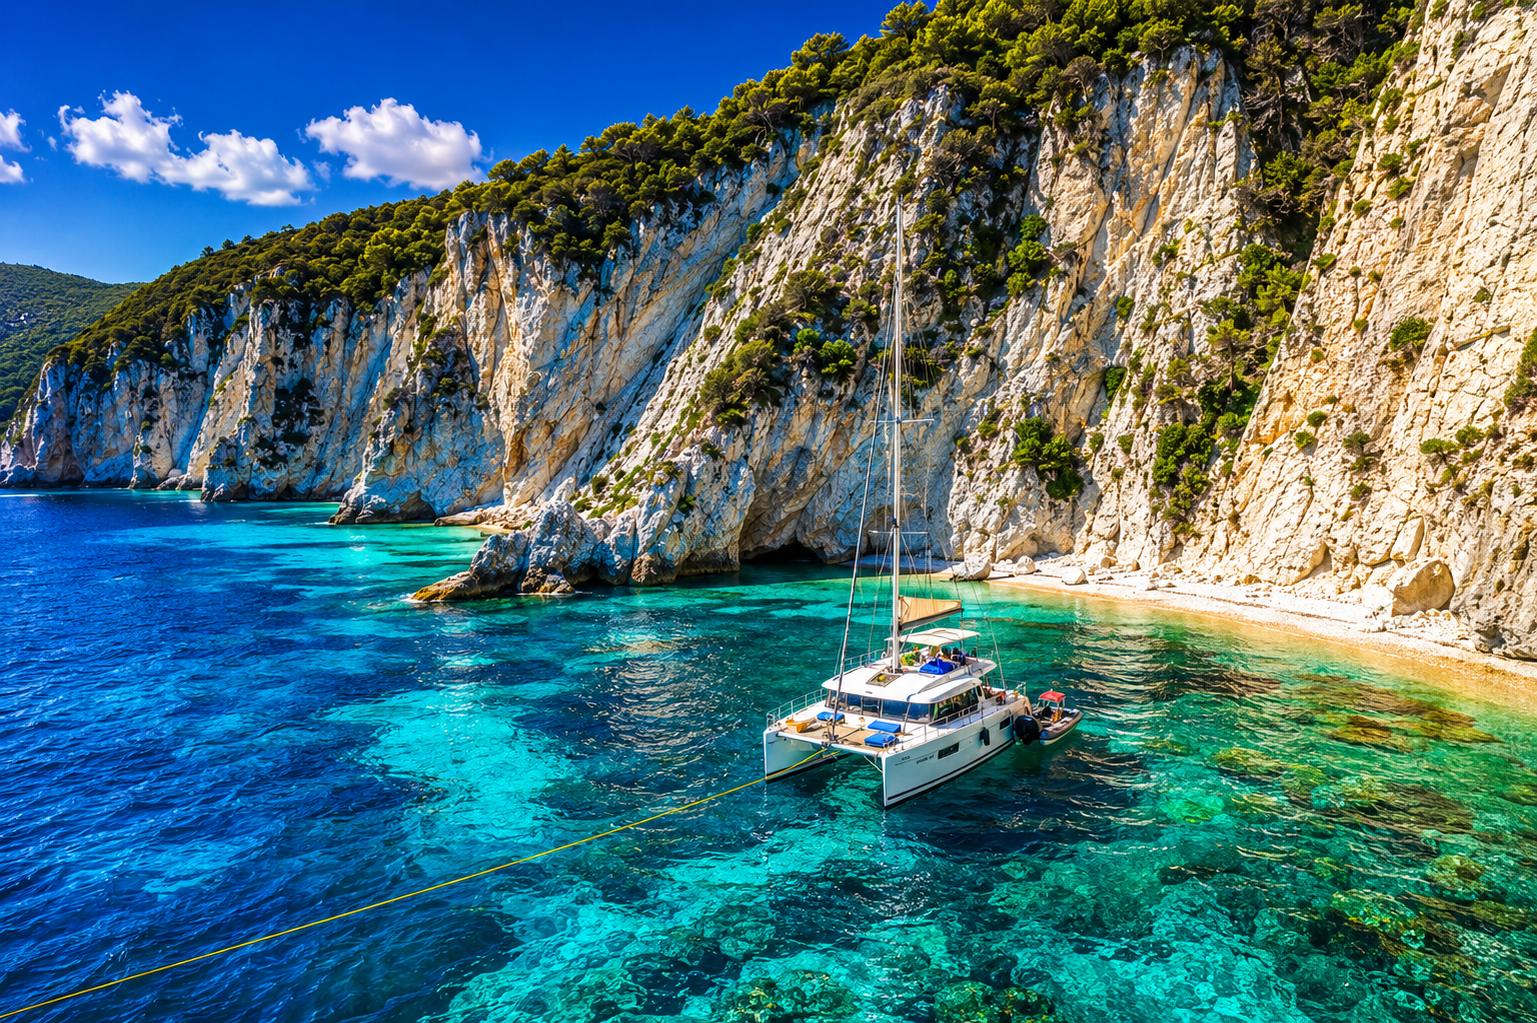
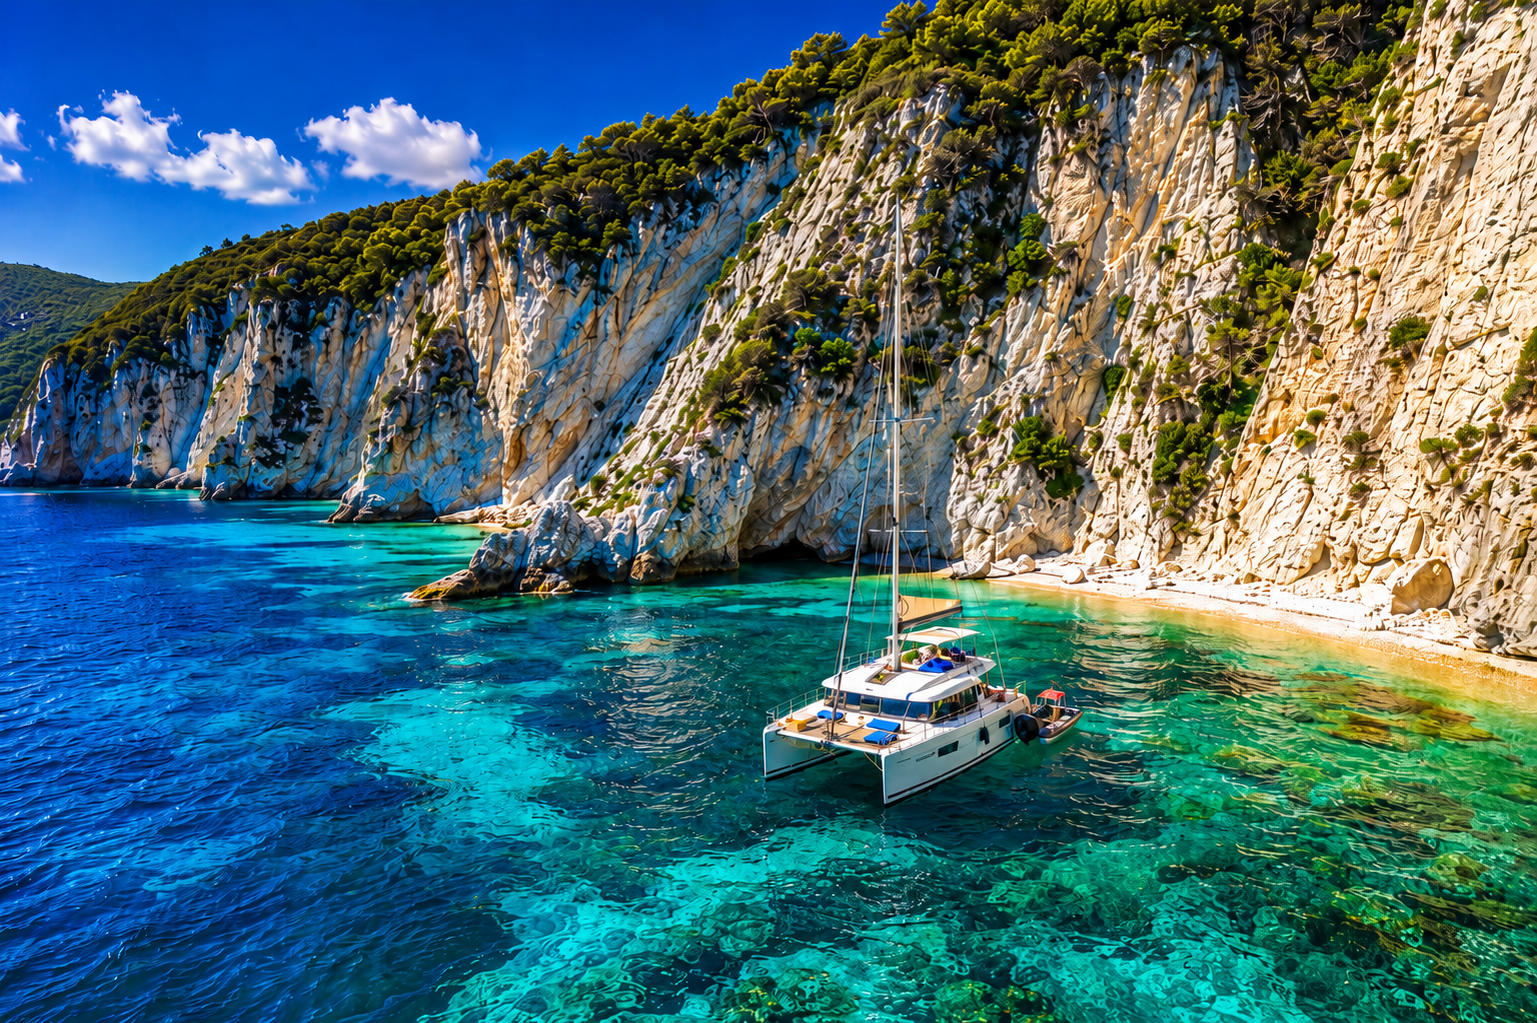
Fix mobile navigation and video controls

diff --git a/src/App.css b/src/App.css
@@ -966,3 +966,123 @@ button {
   background: rgba(16,174,181,0.12) !important;
   color: #10aeb5 !important;
 }
+
+.storyVideoWrap {
+  position: relative;
+  width: 100%;
+  height: 430px;
+  border-radius: 28px;
+  overflow: hidden;
+  background: #dff6fa;
+}
+
+.storyVideoWrap .storyVideo {
+  width: 100%;
+  height: 100%;
+}
+
+.videoPlayButton {
+  position: absolute;
+  inset: 0;
+  margin: auto;
+  width: 74px;
+  height: 74px;
+  border-radius: 50%;
+  background: rgba(7, 59, 90, 0.88);
+  color: white;
+  display: grid;
+  place-items: center;
+  font-size: 30px;
+  line-height: 1;
+  padding-left: 5px;
+  box-shadow: 0 18px 45px rgba(7, 59, 90, 0.28);
+  z-index: 5;
+}
+
+@media (max-width: 760px) {
+  .navbar {
+    width: calc(100% - 20px);
+    top: 10px;
+    padding: 10px 12px;
+    border-radius: 28px;
+    flex-wrap: wrap;
+    gap: 10px;
+  }
+
+  .brand {
+    flex: 1 1 100%;
+    justify-content: center;
+  }
+
+  .brand span:last-child {
+    font-size: 14px;
+  }
+
+  .languageSwitcher {
+    order: 2;
+    flex: 1;
+    justify-content: flex-start;
+  }
+
+  .navButton {
+    display: inline-flex !important;
+    order: 3;
+    padding: 10px 16px;
+    font-size: 13px;
+    white-space: nowrap;
+  }
+
+  .hero {
+    padding-top: 170px;
+  }
+
+  .storyVideoWrap {
+    height: 320px;
+    border-radius: 22px;
+  }
+
+  .videoPlayButton {
+    width: 64px;
+    height: 64px;
+    font-size: 26px;
+  }
+}
+
+@media (max-width: 760px) {
+  .navbar {
+    width: calc(100% - 20px);
+    top: 10px;
+    padding: 10px 12px;
+    border-radius: 28px;
+    flex-wrap: wrap;
+    gap: 10px;
+  }
+
+  .brand {
+    flex: 1 1 100%;
+    justify-content: center;
+  }
+
+  .brand span:last-child {
+    font-size: 14px;
+  }
+
+  .languageSwitcher {
+    display: flex !important;
+    order: 2;
+    flex: 1;
+    justify-content: flex-start;
+  }
+
+  .navButton {
+    display: inline-flex !important;
+    order: 3;
+    padding: 10px 16px;
+    font-size: 13px;
+    white-space: nowrap;
+  }
+
+  .hero {
+    padding-top: 170px;
+  }
+}